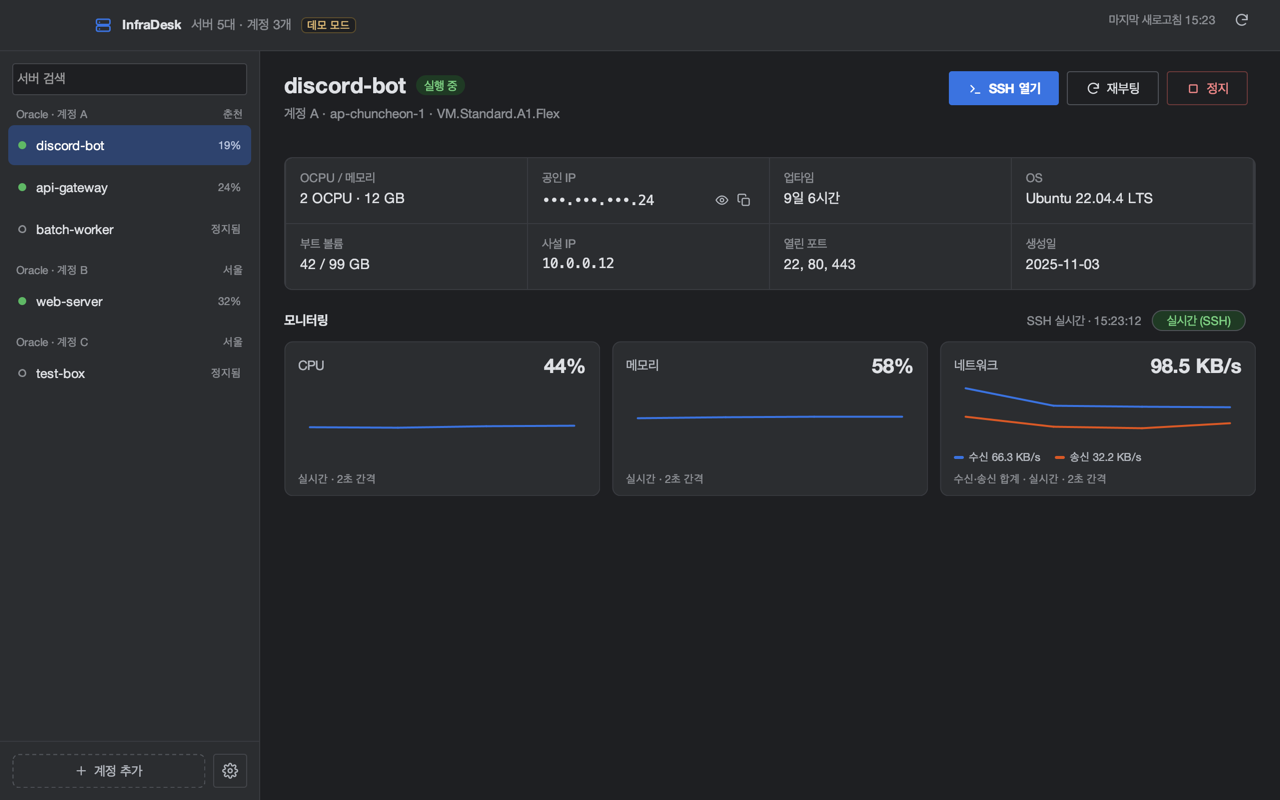
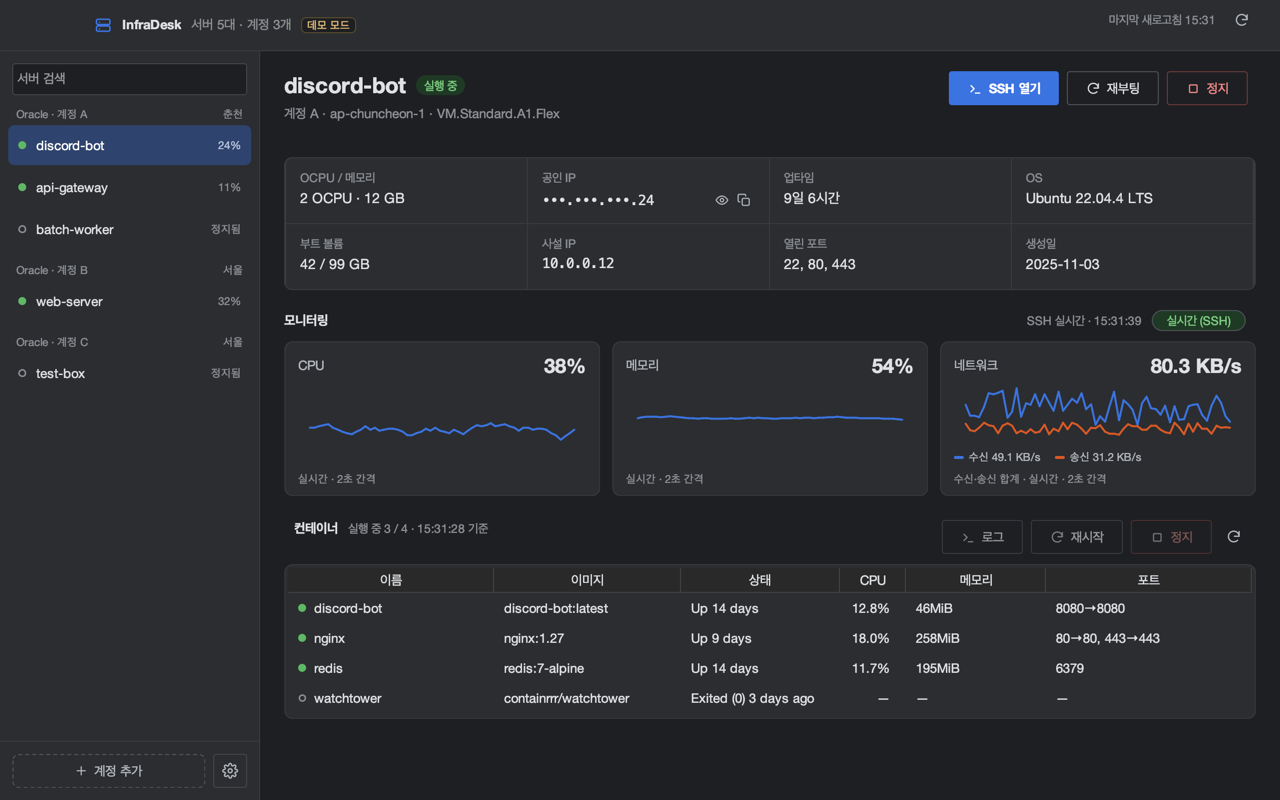
Refresh README screenshots
Hero shows the current dashboard with server info, monitoring and
containers; the live snapshot uses a fast demo /proc stream so the charts
fill in; settings replaces the standalone containers image; the add-account
screenshot moves next to its setup step.

diff --git a/src/test/java/com/infradesk/ui/UiSnapshot.java b/src/test/java/com/infradesk/ui/UiSnapshot.java
@@ -44,7 +44,7 @@ public final class UiSnapshot {
         MainFrame[] mainFrame = new MainFrame[1];
         SwingUtilities.invokeAndWait(() -> {
             Theme.install();
-            mainFrame[0] = new MainFrame(service, InfraDeskApp.demoTerminalService(), InfraDeskApp.demoAlertService(), true);
+            mainFrame[0] = new MainFrame(service, fastLiveTerminalService(), InfraDeskApp.demoAlertService(), true);
             mainFrame[0].setInventory(inventory);
         });
         Thread.sleep(800);
@@ -176,6 +176,14 @@ public final class UiSnapshot {
         pane.paint(g);
         g.dispose();
         ImageIO.write(img, "png", new File(DIR, name));
+    }
+
+    /** Demo terminal whose fake /proc stream ticks every 150 ms, so the live snapshot has a full chart. */
+    private static com.infradesk.service.TerminalService fastLiveTerminalService() {
+        return new com.infradesk.service.TerminalService(new com.infradesk.storage.InMemorySshSettingsStore(),
+                new com.infradesk.storage.InMemorySecretStore(),
+                new com.infradesk.ssh.DemoShellConnector(Duration.ZERO, Duration.ofMillis(150)),
+                new com.infradesk.storage.InMemorySavedCommandStore(com.infradesk.provider.demo.DemoData.savedCommands()), true);
     }
 
     private static void collect(Container c, String simpleName, List<java.awt.Component> out) {

diff --git a/README.md b/README.md
@@ -33,8 +33,8 @@
 | 모니터링 · 실시간 | SSH 터미널 |
 |---|---|
 | ![실시간 모니터링](docs/images/main-live.png) | ![SSH 터미널](docs/images/terminal.png) |
-| **SFTP 파일** | **Docker 컨테이너** |
-| ![SFTP](docs/images/sftp.png) | ![컨테이너](docs/images/containers.png) |
+| **SFTP 파일** | **설정 — 자동 실행 · 앱 정보 · 디스코드 알림** |
+| ![SFTP](docs/images/sftp.png) | ![설정](docs/images/settings.png) |
 
 > 스크린샷은 모두 [데모 모드](#데모-모드)의 가짜 데이터예요.
 
@@ -68,6 +68,8 @@ OCI 콘솔 → 오른쪽 위 프로필 → **내 프로필** → **API 키** →
 
 사이드바 **⊕ 계정 추가** → 값을 붙여넣고 개인 키(`.pem`) 선택 → **연결 테스트** → **저장하고 서버 불러오기**.
 나중에 바꾸려면 계정 이름을 우클릭 → **계정 설정…**.
+
+<img src="docs/images/add-account.png" width="420" alt="계정 추가 창">
 
 ### 3. SSH 설정 (터미널·실시간·SFTP를 쓰려면)
 
